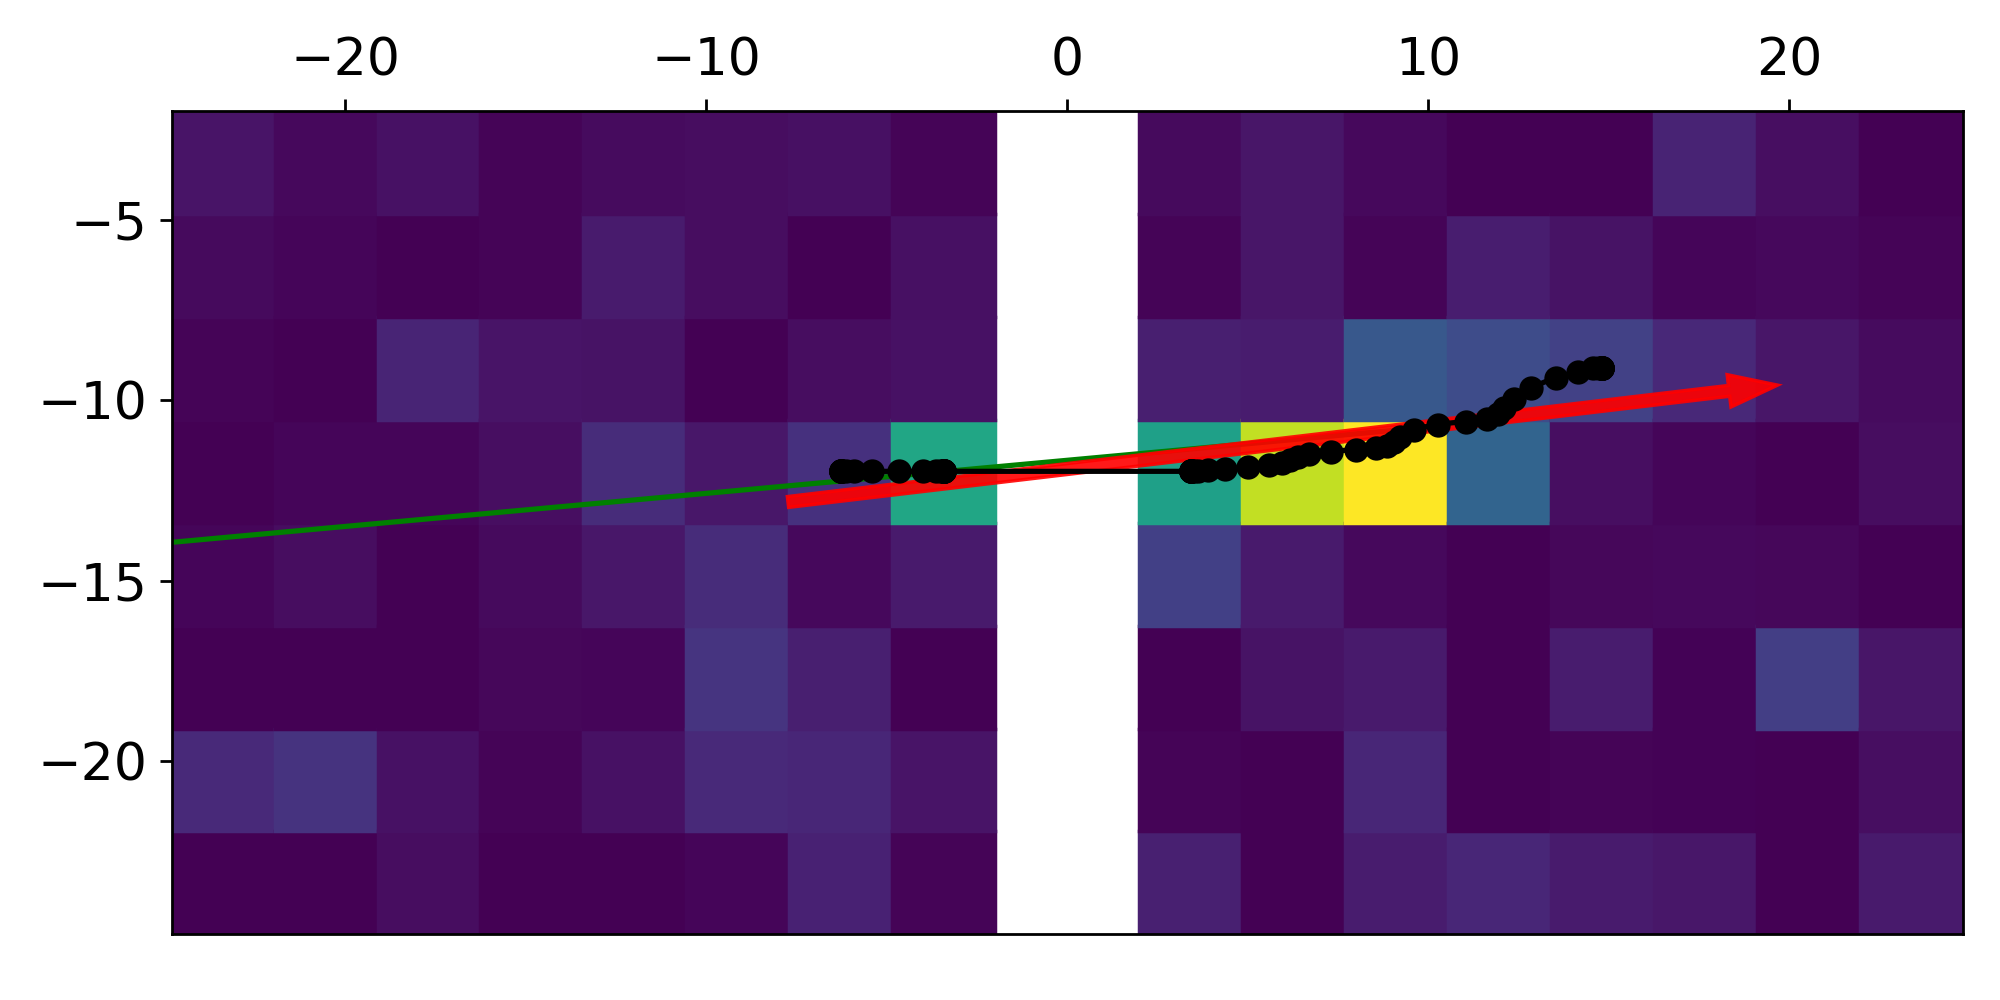
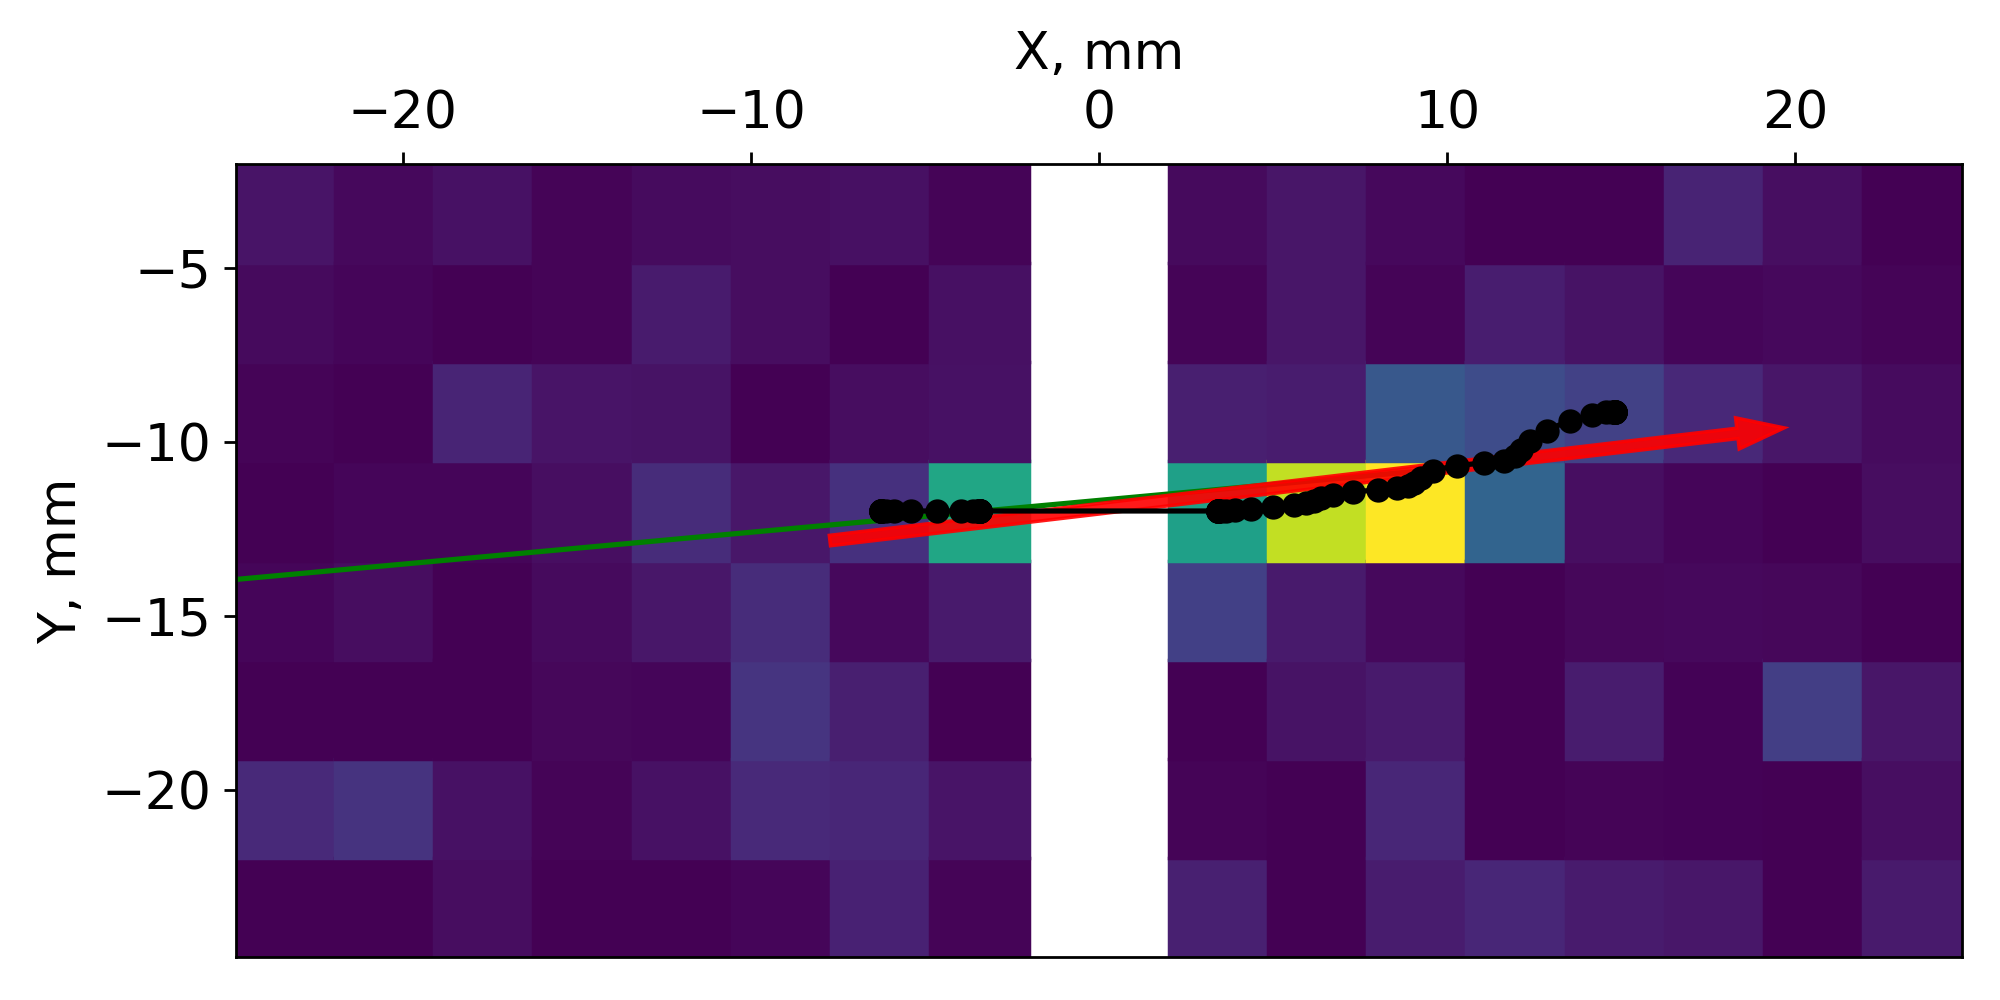
Updated freestanding scripts

diff --git a/freestanding_scripts/barycentric_image/main.py b/freestanding_scripts/barycentric_image/main.py
@@ -38,6 +38,9 @@ def fig_11(ax):
     print(np.min(frame), np.max(frame))
 
     ax.tick_params(top=True, labeltop=True, bottom=False, labelbottom=False)
+    #ax.set_xlabel("X, mm", fontsize=15)
+    ax.set_title("X, mm", fontsize=15)
+    ax.set_ylabel("Y, mm", fontsize=15)
     ax.set_aspect("equal")
     minx, maxx, miny, maxy = detector.draw(ax, frame, norm=FixedNorm(3.0, np.max(frame)))
 
@@ -53,9 +56,8 @@ def fig_11(ax):
 
     ts,xs,ys = bayes_trajectory()
     ax.arrow(xs[0],ys[0],xs[1]-xs[0],ys[1]-ys[0],color="red",width=0.3,alpha=0.9,length_includes_head=True,zorder=2)
-
-
     _,xs_rad,ys_rad = bayes_trajectory(-1.5,t1=-500,t2=config.BAYES_K0)
+
     ax.plot(xs_rad,ys_rad,"-",color="green",zorder=1)
 
 
@@ -88,6 +90,7 @@ if __name__=="__main__":
         #Figure 1.1: trace
         fig,ax = plt.subplots(figsize=(8,4),dpi=250)
         fig_11(ax)
+        fig.tight_layout()
         save_fig(fig,"Fig1_trace")
 
         #Figure 1.2: X(t)
